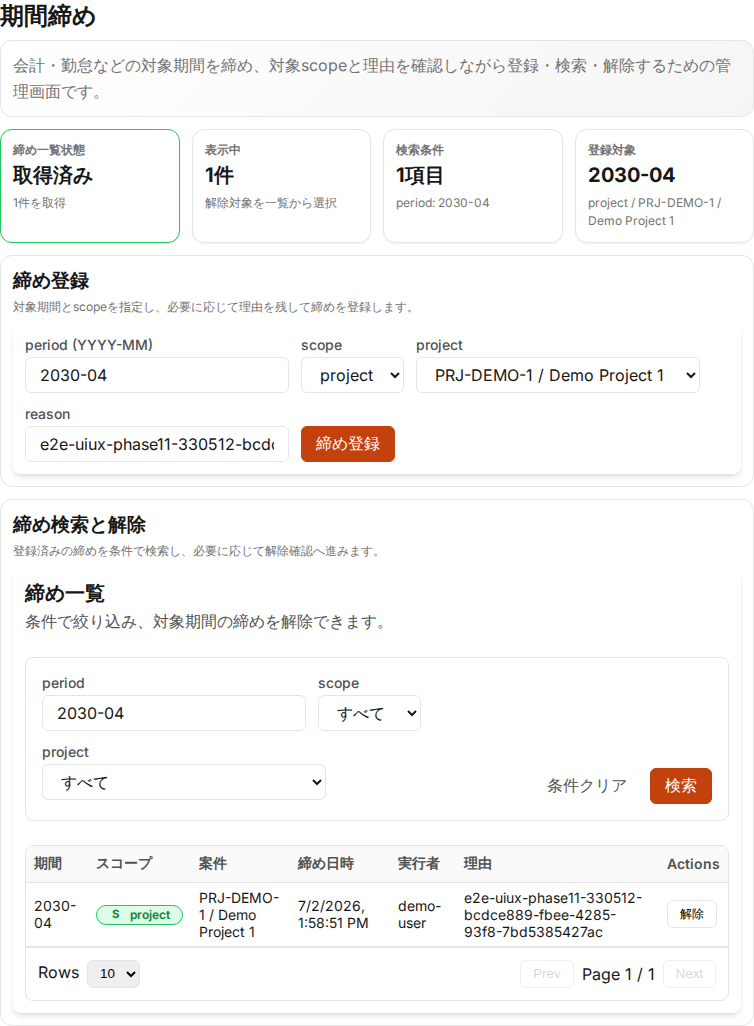
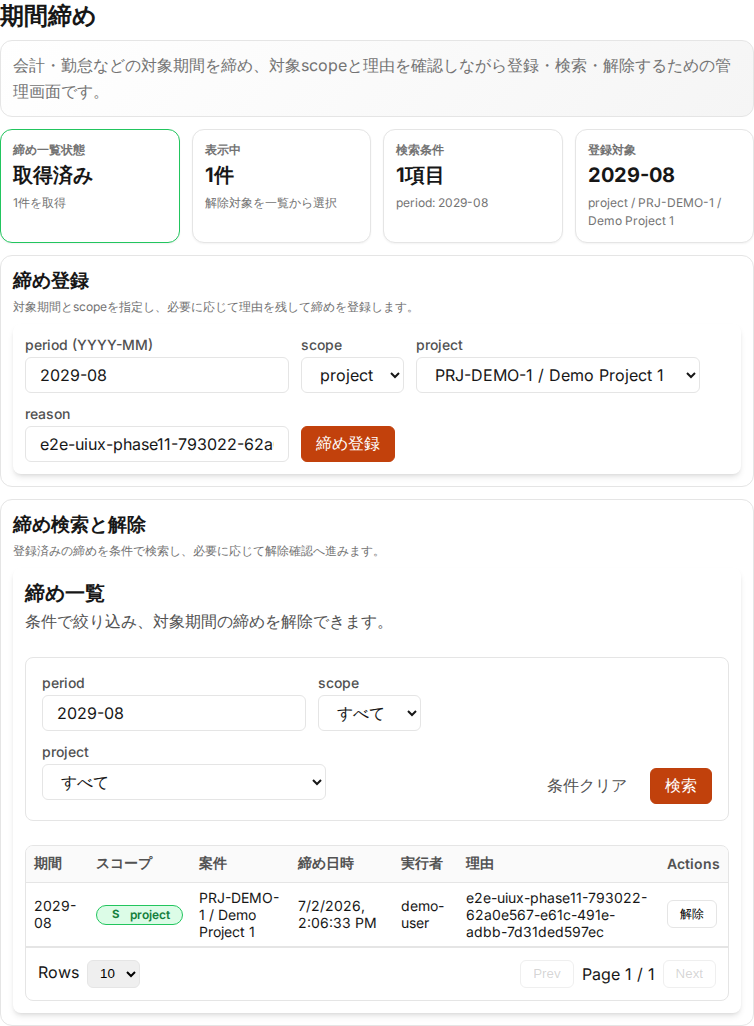
fix(frontend): harden period lock e2e

diff --git a/packages/frontend/e2e/frontend-uiux-phase11-period-locks.spec.ts b/packages/frontend/e2e/frontend-uiux-phase11-period-locks.spec.ts
@@ -10,6 +10,7 @@ const evidenceDir =
   path.join(rootDir, 'docs', 'test-results', `${dateTag}-frontend-e2e`);
 const captureEnabled = process.env.E2E_CAPTURE !== '0';
 const baseUrl = process.env.E2E_BASE_URL || 'http://localhost:5173';
+const apiBase = process.env.E2E_API_BASE || 'http://localhost:3002';
 const actionTimeout = (() => {
   const raw = process.env.E2E_ACTION_TIMEOUT_MS;
   if (raw) {
@@ -80,13 +81,25 @@ async function navigateToSection(page: Page, label: string, heading: string) {
 
 const pad2 = (value: number) => String(value).padStart(2, '0');
 
-const toPeriodValue = (date: Date) =>
-  `${date.getFullYear()}-${pad2(date.getMonth() + 1)}`;
+function toShiftedPeriodValue(date: Date, deltaMonths: number) {
+  const baseMonth = date.getFullYear() * 12 + date.getMonth();
+  const shiftedMonth = baseMonth + deltaMonths;
+  const year = Math.floor(shiftedMonth / 12);
+  const month = (shiftedMonth % 12) + 1;
+  return `${year}-${pad2(month)}`;
+}
 
-function shiftMonth(date: Date, deltaMonths: number) {
-  const shifted = new Date(date);
-  shifted.setMonth(shifted.getMonth() + deltaMonths);
-  return shifted;
+const buildAuthHeaders = () => ({
+  'x-user-id': authState.userId,
+  'x-roles': authState.roles.join(','),
+  'x-project-ids': authState.projectIds.join(','),
+  'x-group-ids': authState.groupIds.join(','),
+});
+
+async function ensureOk(res: { ok(): boolean; status(): number; text(): any }) {
+  if (res.ok()) return;
+  const body = await res.text();
+  throw new Error(`[e2e] api failed: ${res.status()} ${body}`);
 }
 
 async function selectByValue(select: Locator, value: string) {
@@ -103,16 +116,39 @@ async function selectByValue(select: Locator, value: string) {
   await select.selectOption({ value });
 }
 
+async function deleteExistingProjectPeriodLocks(page: Page, period: string) {
+  const params = new URLSearchParams({
+    period,
+    scope: 'project',
+    projectId: defaultProjectId,
+  });
+  const res = await page.request.get(`${apiBase}/period-locks?${params}`, {
+    headers: buildAuthHeaders(),
+  });
+  await ensureOk(res);
+  const payload = await res.json();
+  const items = (payload?.items ?? []) as Array<{ id?: string }>;
+  for (const item of items) {
+    if (!item.id) continue;
+    const deleteRes = await page.request.delete(
+      `${apiBase}/period-locks/${encodeURIComponent(item.id)}`,
+      { headers: buildAuthHeaders() },
+    );
+    await ensureOk(deleteRes);
+  }
+}
+
 test('phase 11 period lock UX/UI summary renders @core', async ({ page }) => {
   test.setTimeout(90_000);
   const run =
     process.env.E2E_RUN_ID ||
     `${Date.now().toString().slice(-6)}-${randomUUID()}`;
   const offset = 30 + ((Number(run.replace(/\D/g, '').slice(0, 2)) || 0) % 18);
-  const lockPeriod = toPeriodValue(shiftMonth(new Date(), offset));
+  const lockPeriod = toShiftedPeriodValue(new Date(), offset);
   const reason = `e2e-uiux-phase11-${run}`;
 
   await prepare(page);
+  await deleteExistingProjectPeriodLocks(page, lockPeriod);
   await navigateToSection(page, '期間締め', '期間締め');
 
   const section = page
@@ -155,4 +191,5 @@ test('phase 11 period lock UX/UI summary renders @core', async ({ page }) => {
     timeout: actionTimeout,
   });
   await captureSection(section, '01-uiux-period-locks.png');
+  await deleteExistingProjectPeriodLocks(page, lockPeriod);
 });

diff --git a/docs/test-results/2026-07-02-uiux-phase11-period-locks.md b/docs/test-results/2026-07-02-uiux-phase11-period-locks.md
@@ -31,5 +31,5 @@ Date: 2026-07-02
 
 ## Notes
 
-- The targeted E2E opens the period-lock screen, verifies the new summary and workflow panels, creates a project-scoped period lock using a future period to avoid collisions with other smoke tests, searches by period, and captures screenshot evidence.
+- The targeted E2E opens the period-lock screen, verifies the new summary and workflow panels, cleans up any existing lock for the selected future period, creates a project-scoped period lock, searches by period, captures screenshot evidence, and cleans up the created lock for rerun safety.
 - Evidence images are committed under `docs/test-results/2026-07-02-uiux-phase11-period-locks/` so that the PR can link to GitHub-hosted files.